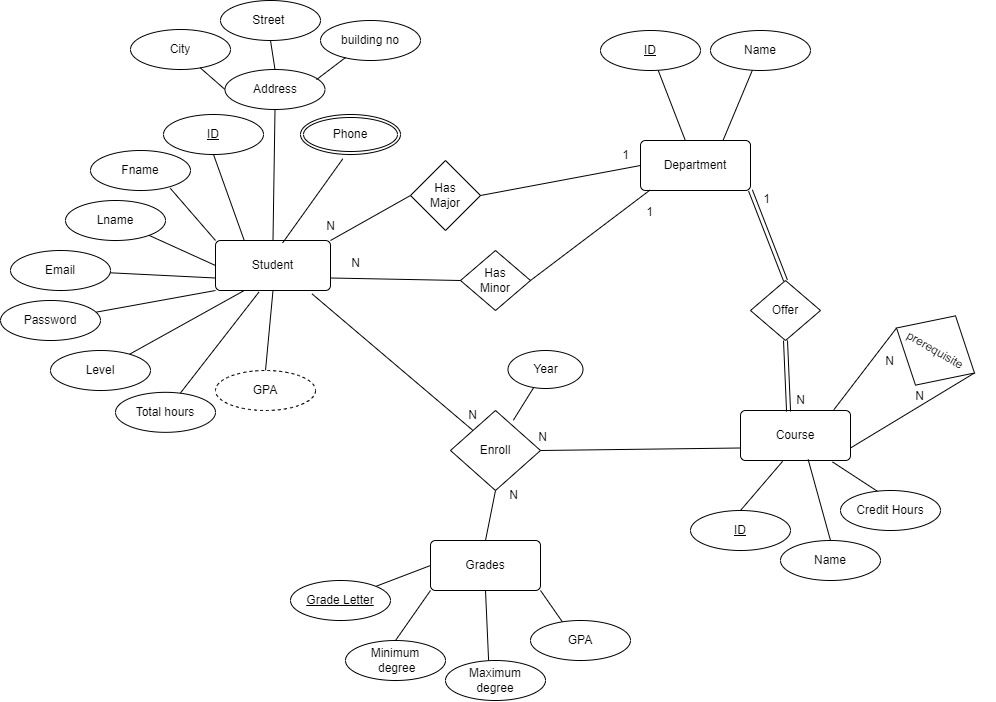
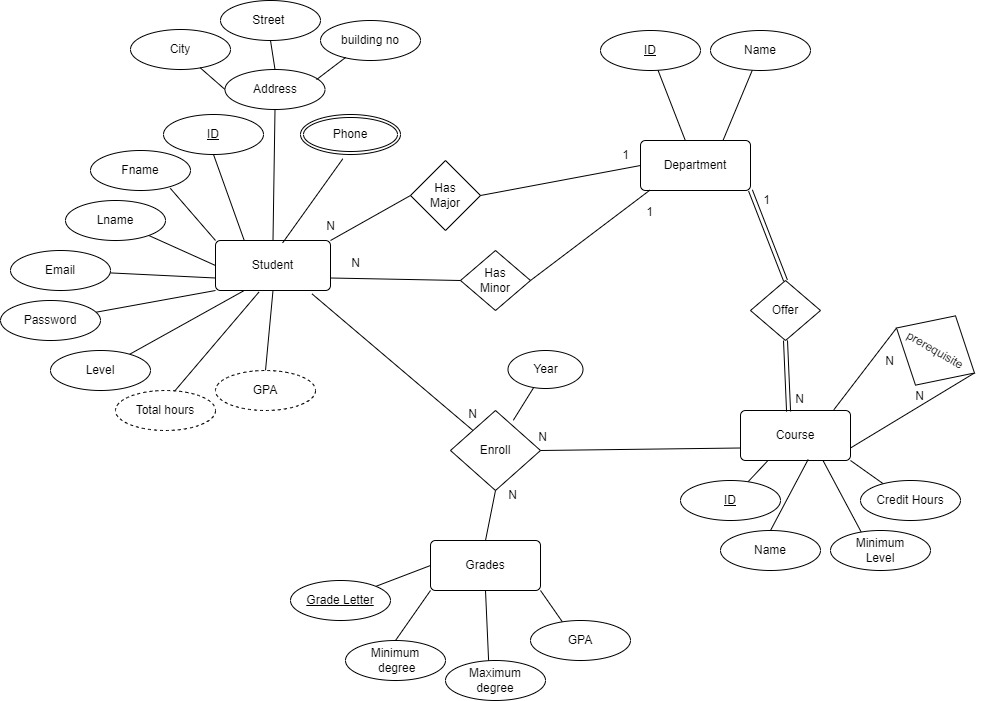
Added Normalization section to README and Updated design to have derived attributes

diff --git a/1.Database Design/README.md b/1.Database Design/README.md
@@ -1,15 +1,16 @@
 # Database Design 
-## Overview
 This folder contains essential files related to the database design for our project.
 ## ER Diagram
 We will start with ER diagram to demonstrate how entities connected to each other 
+
 ![ER Diagram](University.jpg)
+
 ### Entities
 
-- **Student** 
-- **Department**
-- **Course**
-- **Grades**
+- **Student** : Represent student data 
+- **Department** : Represent departments exists in our university
+- **Course** : Represent courses in our university
+- **Grades** : Reference for grading information
 
 ### Relationships
 
@@ -28,3 +29,27 @@ We will start with ER diagram to demonstrate how entities connected to each othe
 - #### Student - Course - Grades ( Ternary Relationship )
 
     - **Enroll** : Each student can be enrolled in multiple courses and can receive a grade for each course. Each course can have multiple enrolled students, and each grade can be associated with multiple enrollments.
+## Normalization
+In this section we will decide how tables in database will be
+### 0NF :
+
+- **Student** ( <u>student_ID</u>, major_department(**fk**) , minor_department(**fk**) , Fname , Lname , Email , Password , Level , Address , Phone )
+- **Department** ( <u>department_ID</u>, name )
+- **Course** ( <u>course_ID</u> , department_id(**fk**) , name , credit_hours , minimum_level )
+- **Grades** ( <u>grade_letter<u> , min_degree , max_degree , GPA )
+- **Course_prerequisite** ( <u>course_ID(**fk**)</u> , <u>prerequisite_ID(**fk**)</u> )
+- **Enrollment** ( <u>student_ID(**fk**)</u> , <u>course_ID(**fk**)</u> , grade_letter(**fk**) , year )
+
+### 1NF :
+Handle the composite attribute "Address" and multivalued attribute "Phone"
+
+- **Student** ( <u>student_ID</u>, major_department(**fk**) , minor_department(**fk**) , Fname , Lname , Email , Password , Level , city , street , building_no )
+- **Student_phone** ( <u>student_ID(**fk**)</u> , <u>phone_number</u> )
+- **Department** ( <u>department_ID</u>, name )
+- **Course** ( <u>course_ID</u> , department_id(**fk**) , name , credit_hours , minimum_level )
+- **Grades** ( <u>grade_letter<u> , min_degree , max_degree , GPA )
+- **Course_prerequisite** ( <u>course_ID(**fk**)</u> , <u>prerequisite_ID(**fk**)</u> )
+- **Enrollment** ( <u>student_ID(**fk**)</u> , <u>course_ID(**fk**)</u> , grade_letter(**fk**) , year )
+
+### 2NF : Tables are already in 2NF. ( No partial dependencies )
+### 3NF : Tables are already in 3NF. ( No transitive dependencies )
